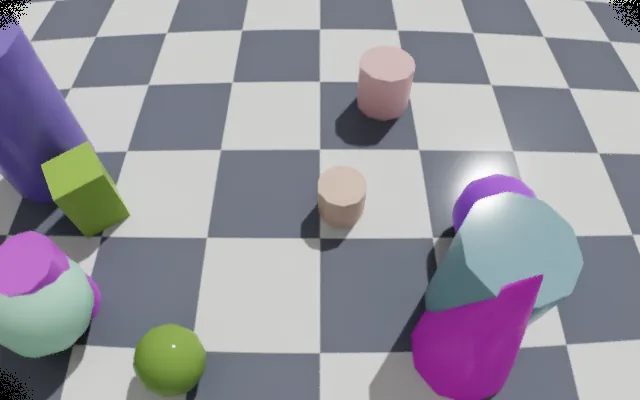
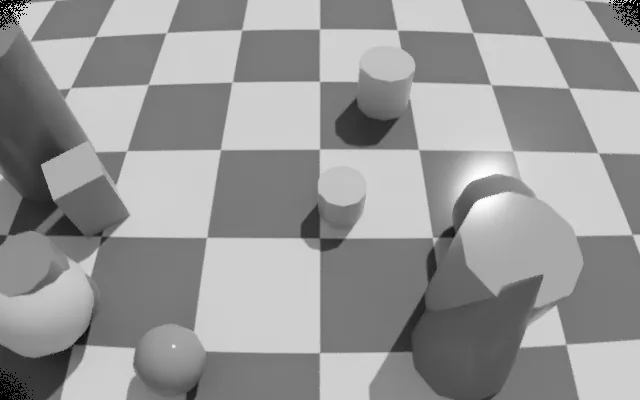
Docs: show the IR imagers again, as mono visible-light views marked IR
A near-IR camera keeps its geometry and lens in the near IR (0.7 px at the
image edge at 850 nm), so its views in the catalog show what TwinRobo models:
its field of view, distortion and blur, rendered in visible light as one
channel. The browser marks them IR and says their near-IR appearance and the
projector's dots are not simulated yet; every camera in the table can be shown.
Mono sensors' views (the IR imagers, the OAK-D mono eye) are now luminance,
as the pipeline outputs them.

diff --git a/docs/javascripts/catalog.js b/docs/javascripts/catalog.js
@@ -99,6 +99,7 @@
           el("small", {}, [`${c.width}×${c.height}`, c.fov && `${fmt(c.fov[0], 0)}° H`, c.mono ? "mono" : null]
             .filter(Boolean).join(" · ")));
         b.append(thumb, text);
+        if (c.nir) b.append(el("span", { class: "trc-badge is-ir", title: "Near-infrared camera" }, "IR"));
         if (c.status !== "estimated") b.append(el("span", { class: "trc-badge" }, "measured"));
         b.addEventListener("click", () => select(c.id));
         box.append(b);
@@ -198,6 +199,12 @@
         dl.append(fact);
       }
       aside.append(dl);
+      if (c.nir) {
+        aside.append(el("p", { class: "trp-irnote" },
+          "Near-infrared camera. Its geometry and lens hold in the near IR, so these views show them; " +
+          "they are rendered in visible light, as one channel. Near-IR appearance and the projector's " +
+          "dots are not simulated yet."));
+      }
       // the "Use this camera" panel
       $(".trp-usecode").textContent = `from twinrobo import CameraTwin\n\ncamera = CameraTwin.from_catalog("${c.id}")`;
       $(".trp-useyaml").href = c.yaml;

diff --git a/docs/stylesheets/extra.css b/docs/stylesheets/extra.css
@@ -954,3 +954,14 @@
 .md-typeset .tr-why-link::after {
   content: " \2192";
 }
+.trc-badge.is-ir {
+  background: var(--tr-indigo);
+}
+.md-typeset .trp-irnote {
+  margin: 0.4rem 0 0;
+  padding: 0.5rem 0.7rem;
+  border-radius: 0.4rem;
+  font-size: 0.64rem;
+  color: var(--md-default-fg-color--light);
+  background: var(--tr-soft);
+}

diff --git a/tools/docs/gen_pages.py b/tools/docs/gen_pages.py
@@ -114,14 +114,13 @@ def camera_entry(path: Path, spec: dict) -> dict:
         "yaml": f"{REPO}/blob/main/{path.relative_to(ROOT).as_posix()}",
         "modules": [m["id"] for m in mods if spec["id"] in m["eyes"]],
         "views": spec["id"] in viewable,
+        # near-infrared: geometry and lens hold, the near-IR appearance is not simulated
+        "nir": (s.get("spectrum") or "visible") == "nir",
     }
 
 
-# Near-infrared cameras (e.g. RealSense IR imagers) are left out: TwinRobo renders visible
-# light, so their images would not show what they see (ROADMAP.md).
-shown = [(p, c) for p, c in cameras if (c["sensor"].get("spectrum") or "visible") != "nir"]
-cams = [camera_entry(p, c) for p, c in shown]
-listed = {c["id"] for c in cams}
+cams = [camera_entry(p, c) for p, c in cameras]
+listed = {c["id"] for c in cams if c["views"]}  # cameras the viewer can show
 with mkdocs_gen_files.open("assets/catalog.json", "w") as f:
     json.dump({"cameras": cams, "modules": mods, "status": STATUS}, f, indent=1)
 
@@ -147,17 +146,8 @@ lines = [
 ]
 SHOW = '<a class="trc-show" href="#cam={id}" data-camera="{id}">Show in browser</a>'
 SHOW_OFF = '<span class="trc-show is-off" aria-disabled="true" title="{tip}">Show in browser</span>'
-TIP_NIR = (
-    "Not viewable in the browser yet: a near-infrared camera, and TwinRobo renders visible "
-    "light (see the roadmap)"
-)
 TIP_NONE = "No in-browser preview yet: this camera's views have not been rendered for the docs"
-# the table lists every camera (the browser leaves near-infrared ones out)
-table = [
-    {**camera_entry(p, c), "nir": (c["sensor"].get("spectrum") or "visible") == "nir"}
-    for p, c in cameras
-]
-for c in sorted(table, key=lambda c: (c["maker"], c["product"])):
+for c in sorted(cams, key=lambda c: (c["maker"], c["product"])):
     sensor = ", ".join(
         x
         for x in (
@@ -170,10 +160,10 @@ for c in sorted(table, key=lambda c: (c["maker"], c["product"])):
     )
     lens = f"{c['focal_mm']} mm" + (f" f/{c['f_number']}" if c["f_number"] else "")
     fov = f"{c['fov'][0]:.0f}° × {c['fov'][1]:.0f}°" if c["fov"] else "from the lens file"
-    if c["views"] and not c["nir"]:  # the page script loads it into the viewer above
+    if c["views"]:  # the page script loads it into the viewer above
         show = SHOW.format(id=c["id"])
     else:
-        show = SHOW_OFF.format(tip=TIP_NIR if c["nir"] else TIP_NONE)
+        show = SHOW_OFF.format(tip=TIP_NONE)
     lines.append(
         f"| {c['maker']} {c['product']} | [`{c['id']}`]({c['yaml']}) | {sensor} | {lens} | {fov} "
         f"| {STATUS.get(c['status'], c['status'])} | {show} |"
@@ -192,7 +182,7 @@ TIP_STEREO = (
 for m in sorted(mods, key=lambda m: m["name"]):
     # an eye shown in the viewer links to it (#cam=... is the page script's state)
     link = '<a href="#cam={0}" data-camera="{0}"><code>{0}</code></a>'
-    eyes = ", ".join(link.format(e) if e in listed else f"`{e}` (IR)" for e in m["eyes"])
+    eyes = ", ".join(link.format(e) if e in listed else f"`{e}`" for e in m["eyes"])
     lines.append(
         f"| {m['name']} | [`{m['id']}`]({m['yaml']}) | {m['baseline_mm']:.0f} mm "
         f"| {eyes or '–'} | {m['output']} | {SHOW_OFF.format(tip=TIP_STEREO)} |"
@@ -211,7 +201,9 @@ lines += [
     "    ([depth output](cameras.md#depth-output)). Images are 640 px wide, rendered",
     "    offline with [`tools/docs/playground`](" + REPO + "/tree/main/tools/docs/playground).",
     "    For cameras on a robot, see the [simulator demo](playground.md). Near-infrared",
-    "    cameras (the RealSense IR imagers) are not shown: TwinRobo renders visible light",
+    "    cameras (the RealSense IR imagers, marked IR) keep their geometry and lens in the",
+    "    near IR, so their views show those; they are rendered in visible light as one",
+    "    channel, without near-IR appearance or the projector's dots",
     "    ([roadmap](" + REPO + "/blob/main/ROADMAP.md#infrared-cameras)).",
     "",
     '!!! tip "Your camera is missing?"',

diff --git a/tools/docs/playground/assemble.py b/tools/docs/playground/assemble.py
@@ -38,6 +38,15 @@ def outputs_depth(camera_id: str) -> bool:
     return CatalogRegistry().load(camera_id).outputs.depth
 
 
+def to_mono(srgb: np.ndarray) -> np.ndarray:
+    """A mono sensor's view: Rec. 709 luminance in linear light (as `CameraTwin.sensor_color`)."""
+    x = srgb.astype(np.float64) / 255
+    lin = np.where(x <= 0.04045, x / 12.92, ((x + 0.055) / 1.055) ** 2.4)
+    y = lin @ np.array([0.2126, 0.7152, 0.0722])
+    out = np.where(y <= 0.0031308, 12.92 * y, 1.055 * y ** (1 / 2.4) - 0.055)
+    return np.repeat((np.clip(out, 0, 1) * 255 + 0.5).astype(np.uint8)[..., None], 3, axis=2)
+
+
 def depth_rgb(depth: np.ndarray, near: float, far: float) -> np.ndarray:
     from matplotlib import colormaps
 
@@ -66,12 +75,12 @@ def assemble(out: Path) -> dict:
             scene["depth_m"] = [round(near, 3), round(far, 3)]
             cams = []
             for cam, depth in zip(meta["cameras"], depths, strict=True):
-                if CatalogRegistry().load(cam["id"]).sensor.spectrum == "nir":
-                    continue  # near-IR cameras: not rendered in their own light
+                mono = CatalogRegistry().load(cam["id"]).sensor.color == "mono"
                 dst = out / scene["id"] / slug(cam["id"])
                 dst.mkdir(parents=True, exist_ok=True)
                 for name in ["pinhole", *METHODS]:
-                    webp(sdir / cam["id"] / f"{name}.png", dst / f"{name}.webp")
+                    img = np.asarray(Image.open(sdir / cam["id"] / f"{name}.png").convert("RGB"))
+                    webp(to_mono(img) if mono else img, dst / f"{name}.webp")
                 cam = {"outputs_depth": outputs_depth(cam["id"]), **cam}
                 if cam["outputs_depth"]:  # only depth cameras have a Depth view
                     webp(depth_rgb(depth, near, far), dst / "depth.webp")

diff --git a/tools/docs/playground/common.py b/tools/docs/playground/common.py
@@ -24,8 +24,7 @@ def cameras() -> list[str]:
 
     reg = CatalogRegistry()
     ids = sorted(e.id if hasattr(e, "id") else e for e in reg.list())
-    # near-infrared cameras: TwinRobo renders visible light, so their views would mislead
-    return [i for i in ids if i not in SKIP and reg.load(i).sensor.spectrum != "nir"]
+    return [i for i in ids if i not in SKIP]
 
 
 def spec_for(camera_id: str):

diff --git a/ROADMAP.md b/ROADMAP.md
@@ -76,8 +76,8 @@ after stereo.
 **Today:** a camera's `sensor.spectrum: nir` (the RealSense IR imagers) says it sees
 near-infrared, and `sensor.color: mono` gives its one intensity channel
 (luminance). Its **geometry and optics** are modeled; its **image content** is
-not, because the simulators render visible light. The docs do not show these
-cameras for that reason.
+not, because the simulators render visible light: the docs show these cameras
+in visible light, as one channel, marked IR.
 
 **Geometry holds, blur shifts.** Tracing the D455 IR imager's (surrogate) lens at
 850 nm instead of 550 nm moves a point at the image edge by 0.7 px (a 0.13%
